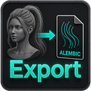
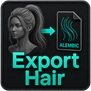
feat(web): new Export_Hair script artwork (91px tile + 256px tooltip)
Downscaled from the provided master (center-cropped square, high-quality bicubic). Regenerated characters pick it up on the next save / Refresh assets.

Claude-Session: https://claude.ai/code/session_01RDszgTstQonkxSmyijKu33

diff --git a/.changeset/export-hair-icon.md b/.changeset/export-hair-icon.md
@@ -1,0 +1,5 @@
+---
+'@dth/web': patch
+---
+
+feat(web): new Content Library artwork for the `Export_Hair_…` script (tile + tooltip). Regenerated characters pick it up on the next save / Refresh assets.
